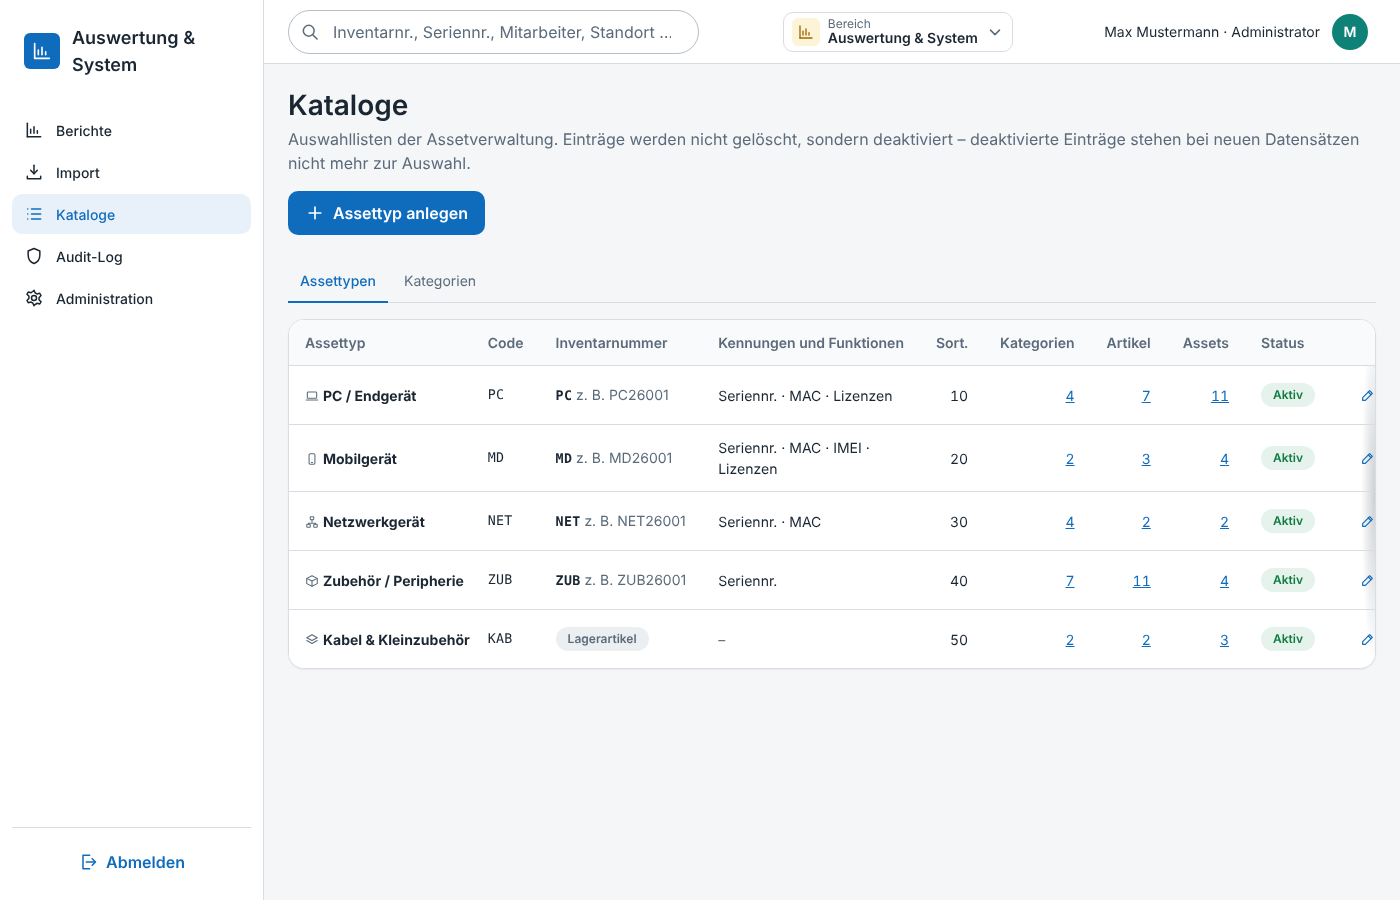
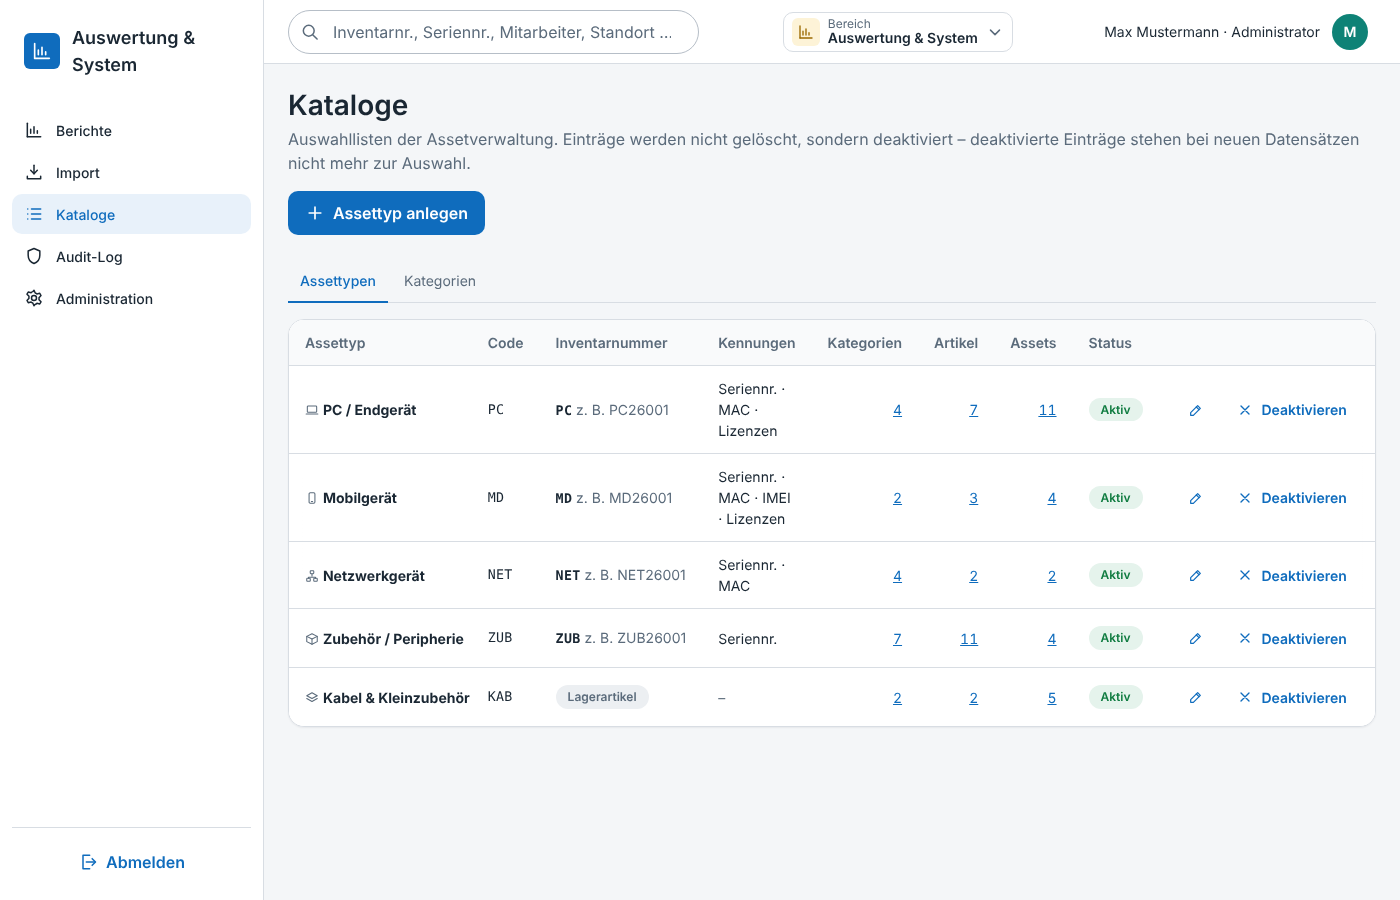
KLINQ: Lagerartikel in Mobil-Ansicht und Meldungen, Test Wareneingang
- Mobile Listen und Abschlussseite zeigen bei Lagerartikeln den Namen
  statt des Platzhalters
- Erfolgsmeldung beim Anlegen nutzt den gespeicherten Datensatz
  (vorher „Asset Asset #ID“ bei Lagerartikeln)
- Kataloge/Assettypen: Spalte „Sort.“ entfernt, damit die Aktionen sichtbar
  bleiben; Screenshots aktualisiert
- Integrationstest: Wareneingang erzeugt Lagerartikel ohne Inventarnummer

Claude-Session: https://claude.ai/code/session_013bQFgWXRbDXM5Ew2bnMnaJ

diff --git a/klinq/tests/Integration/AssetCatalogIntegrationTest.php b/klinq/tests/Integration/AssetCatalogIntegrationTest.php
@@ -191,4 +191,27 @@ final class AssetCatalogIntegrationTest extends DatabaseTestCase
         $this->assertThrows(ValidationException::class, fn () => $svc->setStock($toner, $repo->find($toner), ['stock_quantity' => '-1']));
         $this->assertThrows(ValidationException::class, fn () => $svc->setStock($notebook, $repo->find($notebook), ['stock_quantity' => '5']));
     }
+
+    public function testGoodsReceiptCreatesLagerartikelWithoutInventoryNumber(): void
+    {
+        $this->pdo->exec("INSERT INTO users (username, display_name, role_id) SELECT 'katalogtest', 'Katalog Test', id FROM roles WHERE name = 'admin'");
+        $this->c->get(CurrentUser::class)->login(['id' => (int) $this->pdo->lastInsertId(), 'username' => 'katalogtest', 'display_name' => 'Katalog Test', 'role' => 'admin']);
+        $typeId = $this->c->get(AssetCatalogService::class)->saveType(null, $this->typeInput(['code' => 'HSET', 'name' => 'Headsets', 'inventory_prefix' => '', 'requires_inventory_number' => '0', 'has_serial_number' => '0']));
+        $this->pdo->exec("INSERT INTO manufacturers (name) VALUES ('Headsetwerk')");
+        $this->pdo->prepare('INSERT INTO articles (manufacturer_id, asset_type_id, name, is_active) VALUES (?, ?, ?, 1)')->execute([(int) $this->pdo->lastInsertId(), $typeId, 'Headset Mono']);
+        $articleId = (string) $this->pdo->lastInsertId();
+        $this->pdo->exec("INSERT INTO suppliers (name) VALUES ('Lagerlieferant')");
+        $supplierId = (string) $this->pdo->lastInsertId();
+
+        $orders = $this->c->get(\App\Services\PurchaseOrderService::class);
+        $orderRepo = $this->c->get(\App\Repositories\PurchaseOrderRepository::class);
+        $id = $orders->create(['supplier_id' => $supplierId]);
+        $item = $orders->addItem($id, $orderRepo->find($id), ['article_id' => $articleId, 'quantity' => '2', 'unit_price' => '19,90', 'creates_assets' => '1']);
+        $orders->markOrdered($id, $orderRepo->find($id));
+        $orders->receive($id, $orderRepo->find($id), ['received_at' => date('Y-m-d'), 'items' => [$item => ['quantity' => '2']]]);
+
+        $rows = $this->pdo->query('SELECT inventory_number FROM assets WHERE asset_type_id = ' . (int) $typeId)->fetchAll(\PDO::FETCH_COLUMN);
+        $this->assertCount(2, $rows);
+        $this->assertSame([null, null], $rows);
+    }
 }

diff --git a/klinq/resources/views/catalogs/index.php b/klinq/resources/views/catalogs/index.php
@@ -33,7 +33,7 @@ $newUrl = '/catalogs/' . $kind . '/new' . (!$isTypes && $typeFilter !== null ? '
     <?php elseif ($isTypes): ?>
     <div class="table-wrapper">
     <table class="table">
-        <thead><tr><th>Assettyp</th><th>Code</th><th>Inventarnummer</th><th>Kennungen und Funktionen</th><th class="num">Sort.</th><th class="num">Kategorien</th><th class="num">Artikel</th><th class="num">Assets</th><th>Status</th><th></th></tr></thead>
+        <thead><tr><th>Assettyp</th><th>Code</th><th>Inventarnummer</th><th>Kennungen</th><th class="num">Kategorien</th><th class="num">Artikel</th><th class="num">Assets</th><th>Status</th><th></th></tr></thead>
         <tbody>
         <?php foreach ($rows as $r): ?>
             <tr class="<?= (int) $r['is_active'] ? '' : 'is-muted' ?>">
@@ -42,7 +42,6 @@ $newUrl = '/catalogs/' . $kind . '/new' . (!$isTypes && $typeFilter !== null ? '
                 <td class="mono"><?= e($r['code']) ?></td>
                 <td class="nowrap"><?= (int) $r['requires_inventory_number'] === 1 ? '<span class="mono"><strong>' . e((string) $r['inventory_prefix']) . '</strong></span> <span class="text-muted text-sm">z. B. ' . e((string) $r['inventory_prefix']) . date('y') . '001</span>' : badge('Lagerartikel', 'neutral') ?></td>
                 <td class="text-sm"><?= $features !== [] ? e(implode(' · ', $features)) : '<span class="text-muted">–</span>' ?></td>
-                <td class="num"><?= (int) $r['sort_order'] ?></td>
                 <td class="num"><a href="/catalogs?tab=asset-categories&amp;asset_type_id=<?= (int) $r['id'] ?>"><?= (int) $r['category_count'] ?></a></td>
                 <td class="num"><a href="/articles?asset_type_id=<?= (int) $r['id'] ?>&amp;active="><?= (int) $r['article_count'] ?></a></td>
                 <td class="num"><a href="/assets?asset_type_id=<?= (int) $r['id'] ?>"><?= (int) $r['asset_count'] ?></a></td>

diff --git a/klinq/resources/views/mobile/done.php b/klinq/resources/views/mobile/done.php
@@ -6,7 +6,7 @@ $inv = rawurlencode(asset_code($movement));
 <div class="card m-done<?= $open ? ' is-warning' : '' ?>">
     <div class="m-done-icon"><?= icon($open ? 'clock' : 'check') ?></div>
     <h2><?= $isCheckout ? 'Entnahme' : 'Rückgabe' ?> <?= $open ? 'gespeichert (offen)' : 'abgeschlossen' ?></h2>
-    <p class="text-muted"><span class="mono font-semibold"><?= e(asset_number($movement)) ?></span><?= $movement['employee_name'] ? ($isCheckout ? ' → ' : ' von ') . e($movement['employee_name']) : '' ?><br><?= fmt_datetime($movement['movement_at']) ?></p>
+    <p class="text-muted"><span class="mono font-semibold"><?= e(asset_label($movement)) ?></span><?= $movement['employee_name'] ? ($isCheckout ? ' → ' : ' von ') . e($movement['employee_name']) : '' ?><br><?= fmt_datetime($movement['movement_at']) ?></p>
     <?php if ($open): ?>
         <p class="text-warning mb-0"><?= $missing ? 'Fehlt noch: <strong>' . e(implode(', ', $missing)) . '</strong>. ' : '' ?>Der Vorgang steht in der Liste „Offene Vorgänge“ und wird dort vervollständigt.</p>
     <?php else: ?>

diff --git a/klinq/resources/views/mobile/open.php b/klinq/resources/views/mobile/open.php
@@ -7,7 +7,7 @@
             <li><a href="/movements/<?= (int) $r['id'] ?>">
                 <?= icon($r['type'] === 'checkout' ? 'checkout' : 'return') ?>
                 <div class="m-list-main">
-                    <div class="m-list-title"><span class="mono"><?= e(asset_number($r)) ?></span> · <?= $r['type'] === 'checkout' ? 'Entnahme' : 'Rückgabe' ?><?= $r['employee_name'] ? ' · ' . e($r['employee_name']) : '' ?></div>
+                    <div class="m-list-title"><span class="mono"><?= e(asset_label($r)) ?></span> · <?= $r['type'] === 'checkout' ? 'Entnahme' : 'Rückgabe' ?><?= $r['employee_name'] ? ' · ' . e($r['employee_name']) : '' ?></div>
                     <div class="m-list-sub"><?= fmt_datetime($r['movement_at']) ?><?= $missing ? ' · fehlt: ' . e(implode(', ', $missing)) : ' · Prüfung ausstehend' ?></div>
                 </div>
                 <?= icon('chevron-right') ?>

diff --git a/klinq/resources/views/mobile/asset.php b/klinq/resources/views/mobile/asset.php
@@ -32,7 +32,7 @@ $inv = rawurlencode(asset_code($asset));
         <?php foreach ($children as $c): ?>
             <li><a href="/m/asset/<?= e(rawurlencode(asset_code($c))) ?>">
                 <?= icon($c['asset_type_icon'] ?: 'box') ?>
-                <div class="m-list-main"><div class="m-list-title mono"><?= e(asset_number($c)) ?></div><div class="m-list-sub"><?= e($c['category_name'] ?? $c['asset_type_name']) ?> · <?= e($c['name'] ?: ($c['article_name'] ?? '')) ?></div></div>
+                <div class="m-list-main"><div class="m-list-title mono"><?= e(asset_label($c)) ?></div><div class="m-list-sub"><?= e($c['category_name'] ?? $c['asset_type_name']) ?> · <?= e($c['name'] ?: ($c['article_name'] ?? '')) ?></div></div>
                 <?= badge($c['status_name'], $c['status_color']) ?>
             </a></li>
         <?php endforeach; ?>

diff --git a/klinq/resources/views/mobile/scan.php b/klinq/resources/views/mobile/scan.php
@@ -32,7 +32,7 @@
             <li><a href="/m/asset/<?= e(rawurlencode(asset_code($r))) ?>">
                 <?= icon($r['type'] === 'checkout' ? 'checkout' : 'return') ?>
                 <div class="m-list-main">
-                    <div class="m-list-title"><span class="mono"><?= e(asset_number($r)) ?></span> · <?= $r['type'] === 'checkout' ? 'Entnahme' : 'Rückgabe' ?></div>
+                    <div class="m-list-title"><span class="mono"><?= e(asset_label($r)) ?></span> · <?= $r['type'] === 'checkout' ? 'Entnahme' : 'Rückgabe' ?></div>
                     <div class="m-list-sub"><?= e($r['employee_name'] ?? $r['to_location_path'] ?? '') ?> · <?= fmt_datetime($r['movement_at']) ?></div>
                 </div>
                 <?php if ($r['status'] === 'open'): ?><?= badge('offen', 'warning') ?><?php endif; ?>

diff --git a/klinq/app/Controllers/AssetController.php b/klinq/app/Controllers/AssetController.php
@@ -117,7 +117,8 @@ final class AssetController extends BaseController
 
             return $this->redirect('/assets/new');
         }
-        $this->flash('success', 'Asset ' . AssetService::label($result) . ' wurde angelegt.');
+        // Lagerartikel ohne Inventarnummer: Anzeigename aus dem gespeicherten Datensatz (Artikel/Bezeichnung)
+        $this->flash('success', 'Asset ' . AssetService::label($this->assets->find($result['id']) ?? $result) . ' wurde angelegt.');
         if ($request->string('save_and_new') === '1') {
             return $this->redirect('/assets/new?' . http_build_query(array_filter([
                 'asset_type_id' => $request->string('asset_type_id'),
